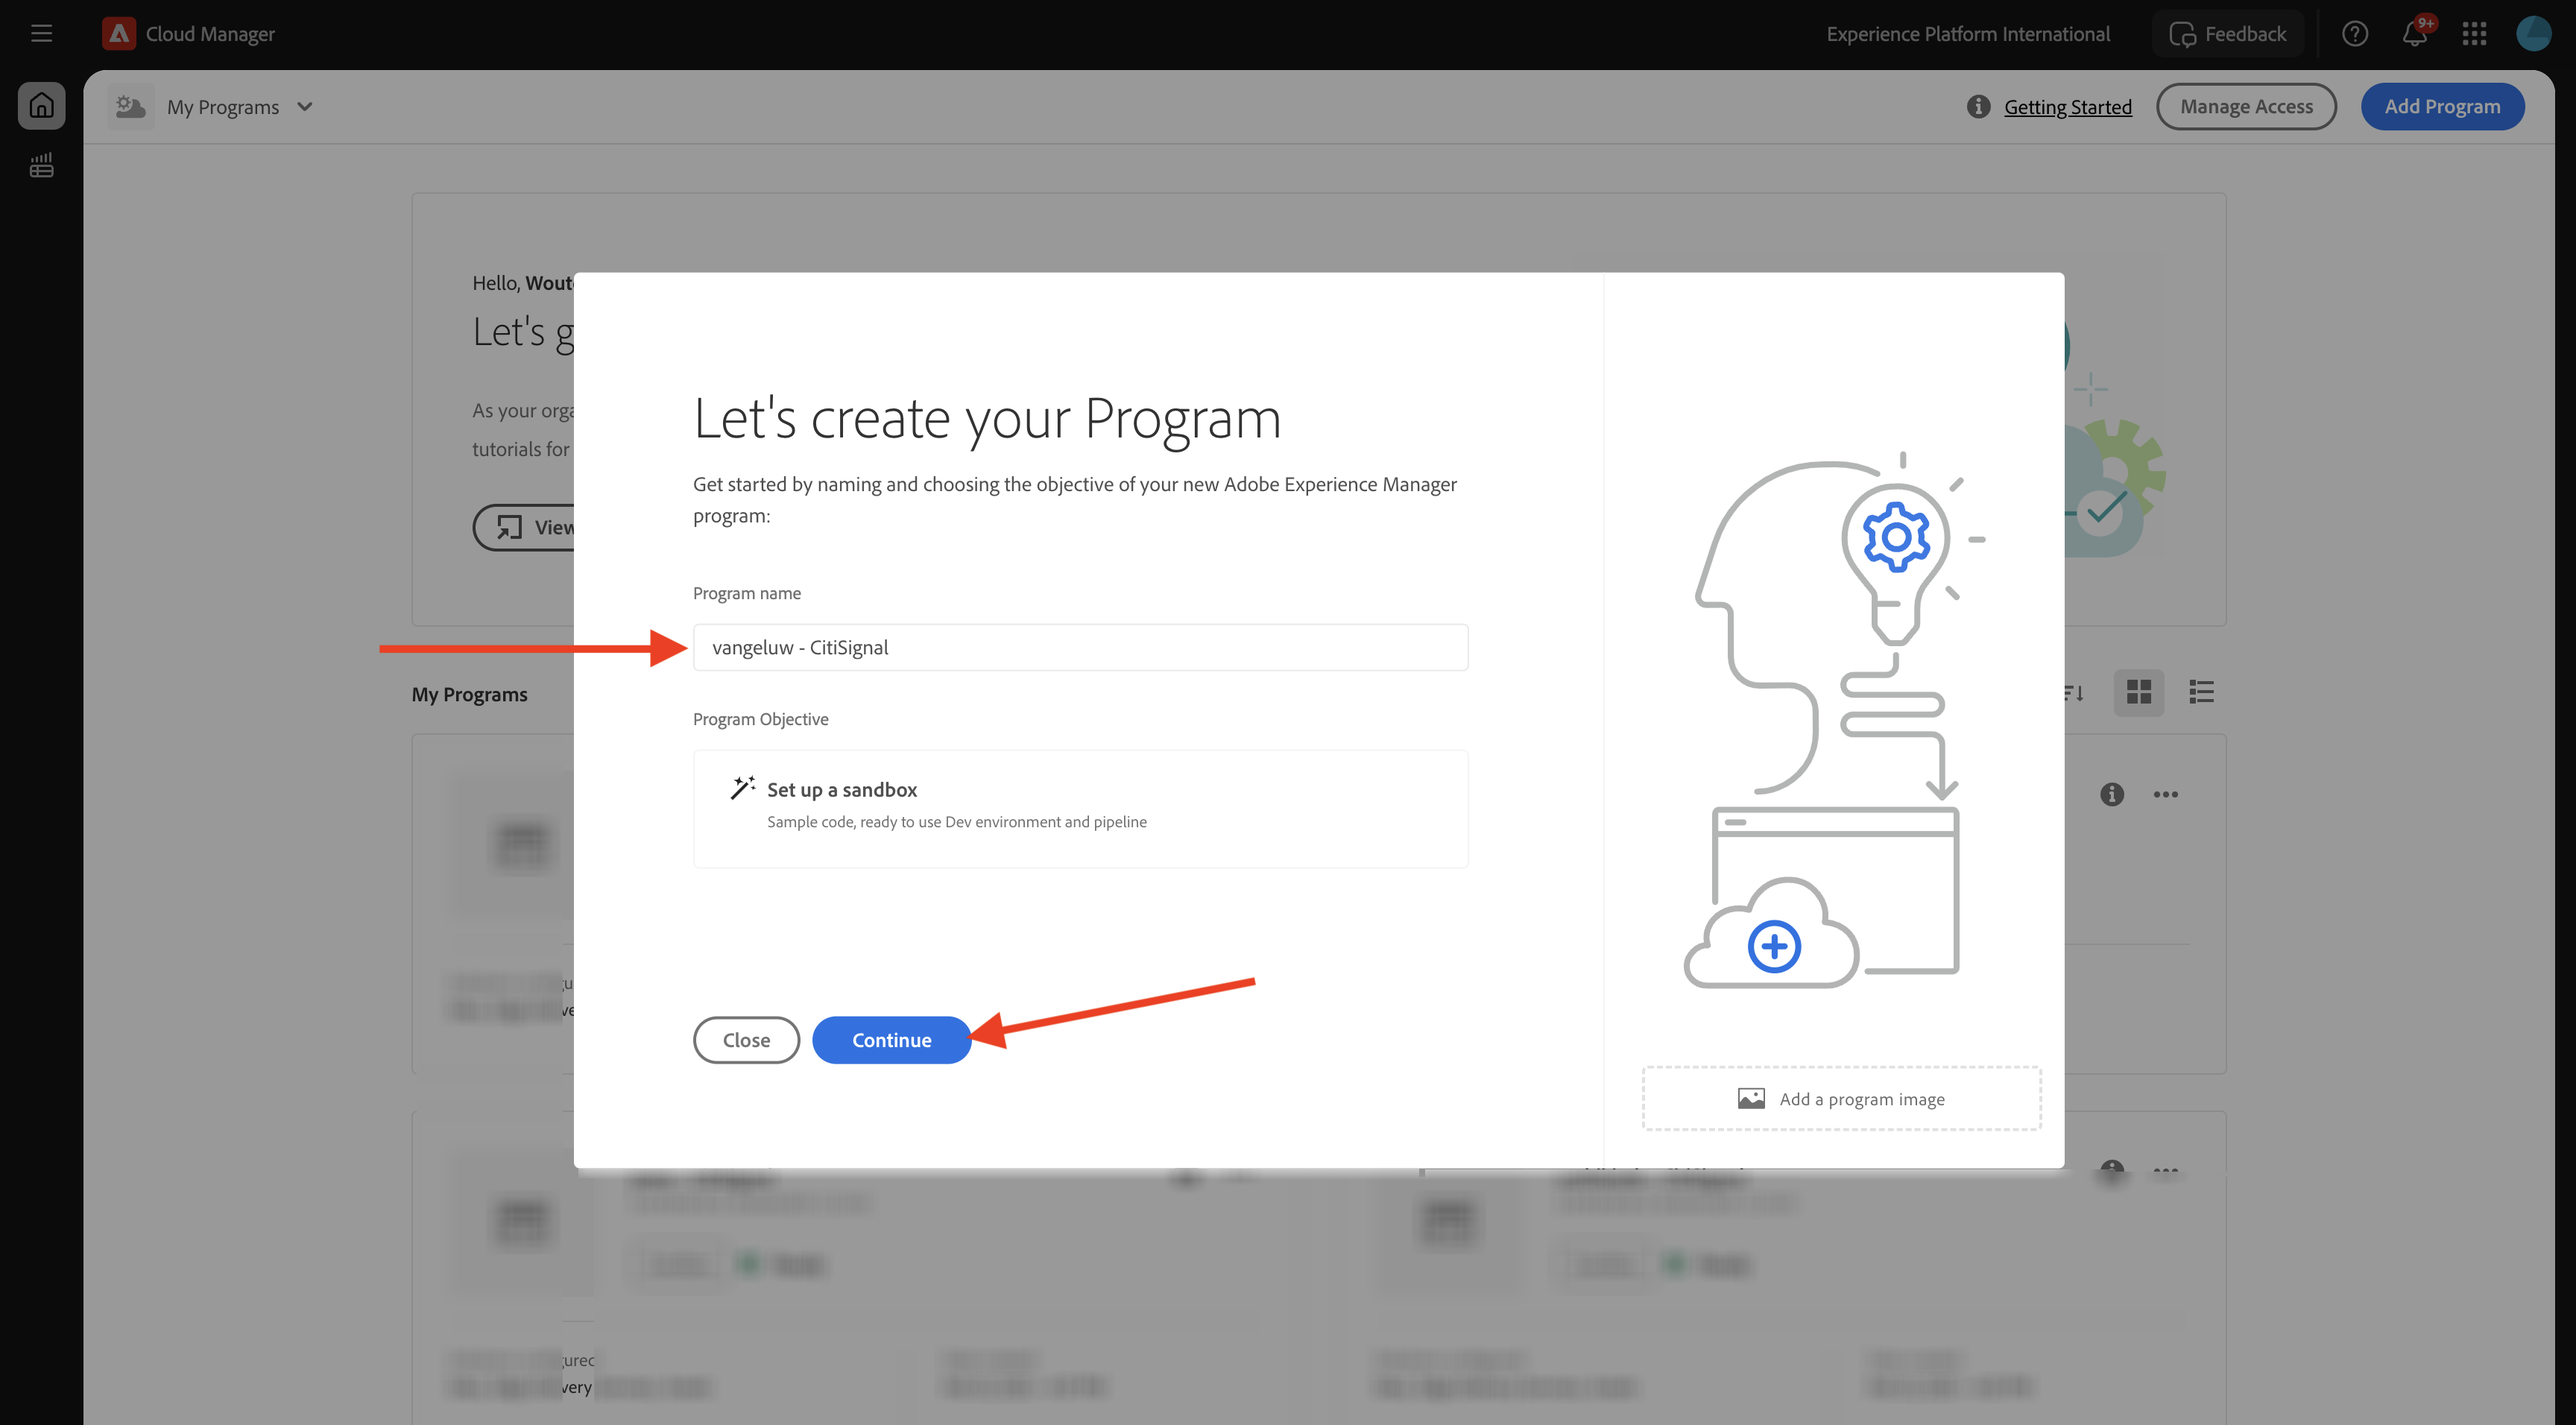
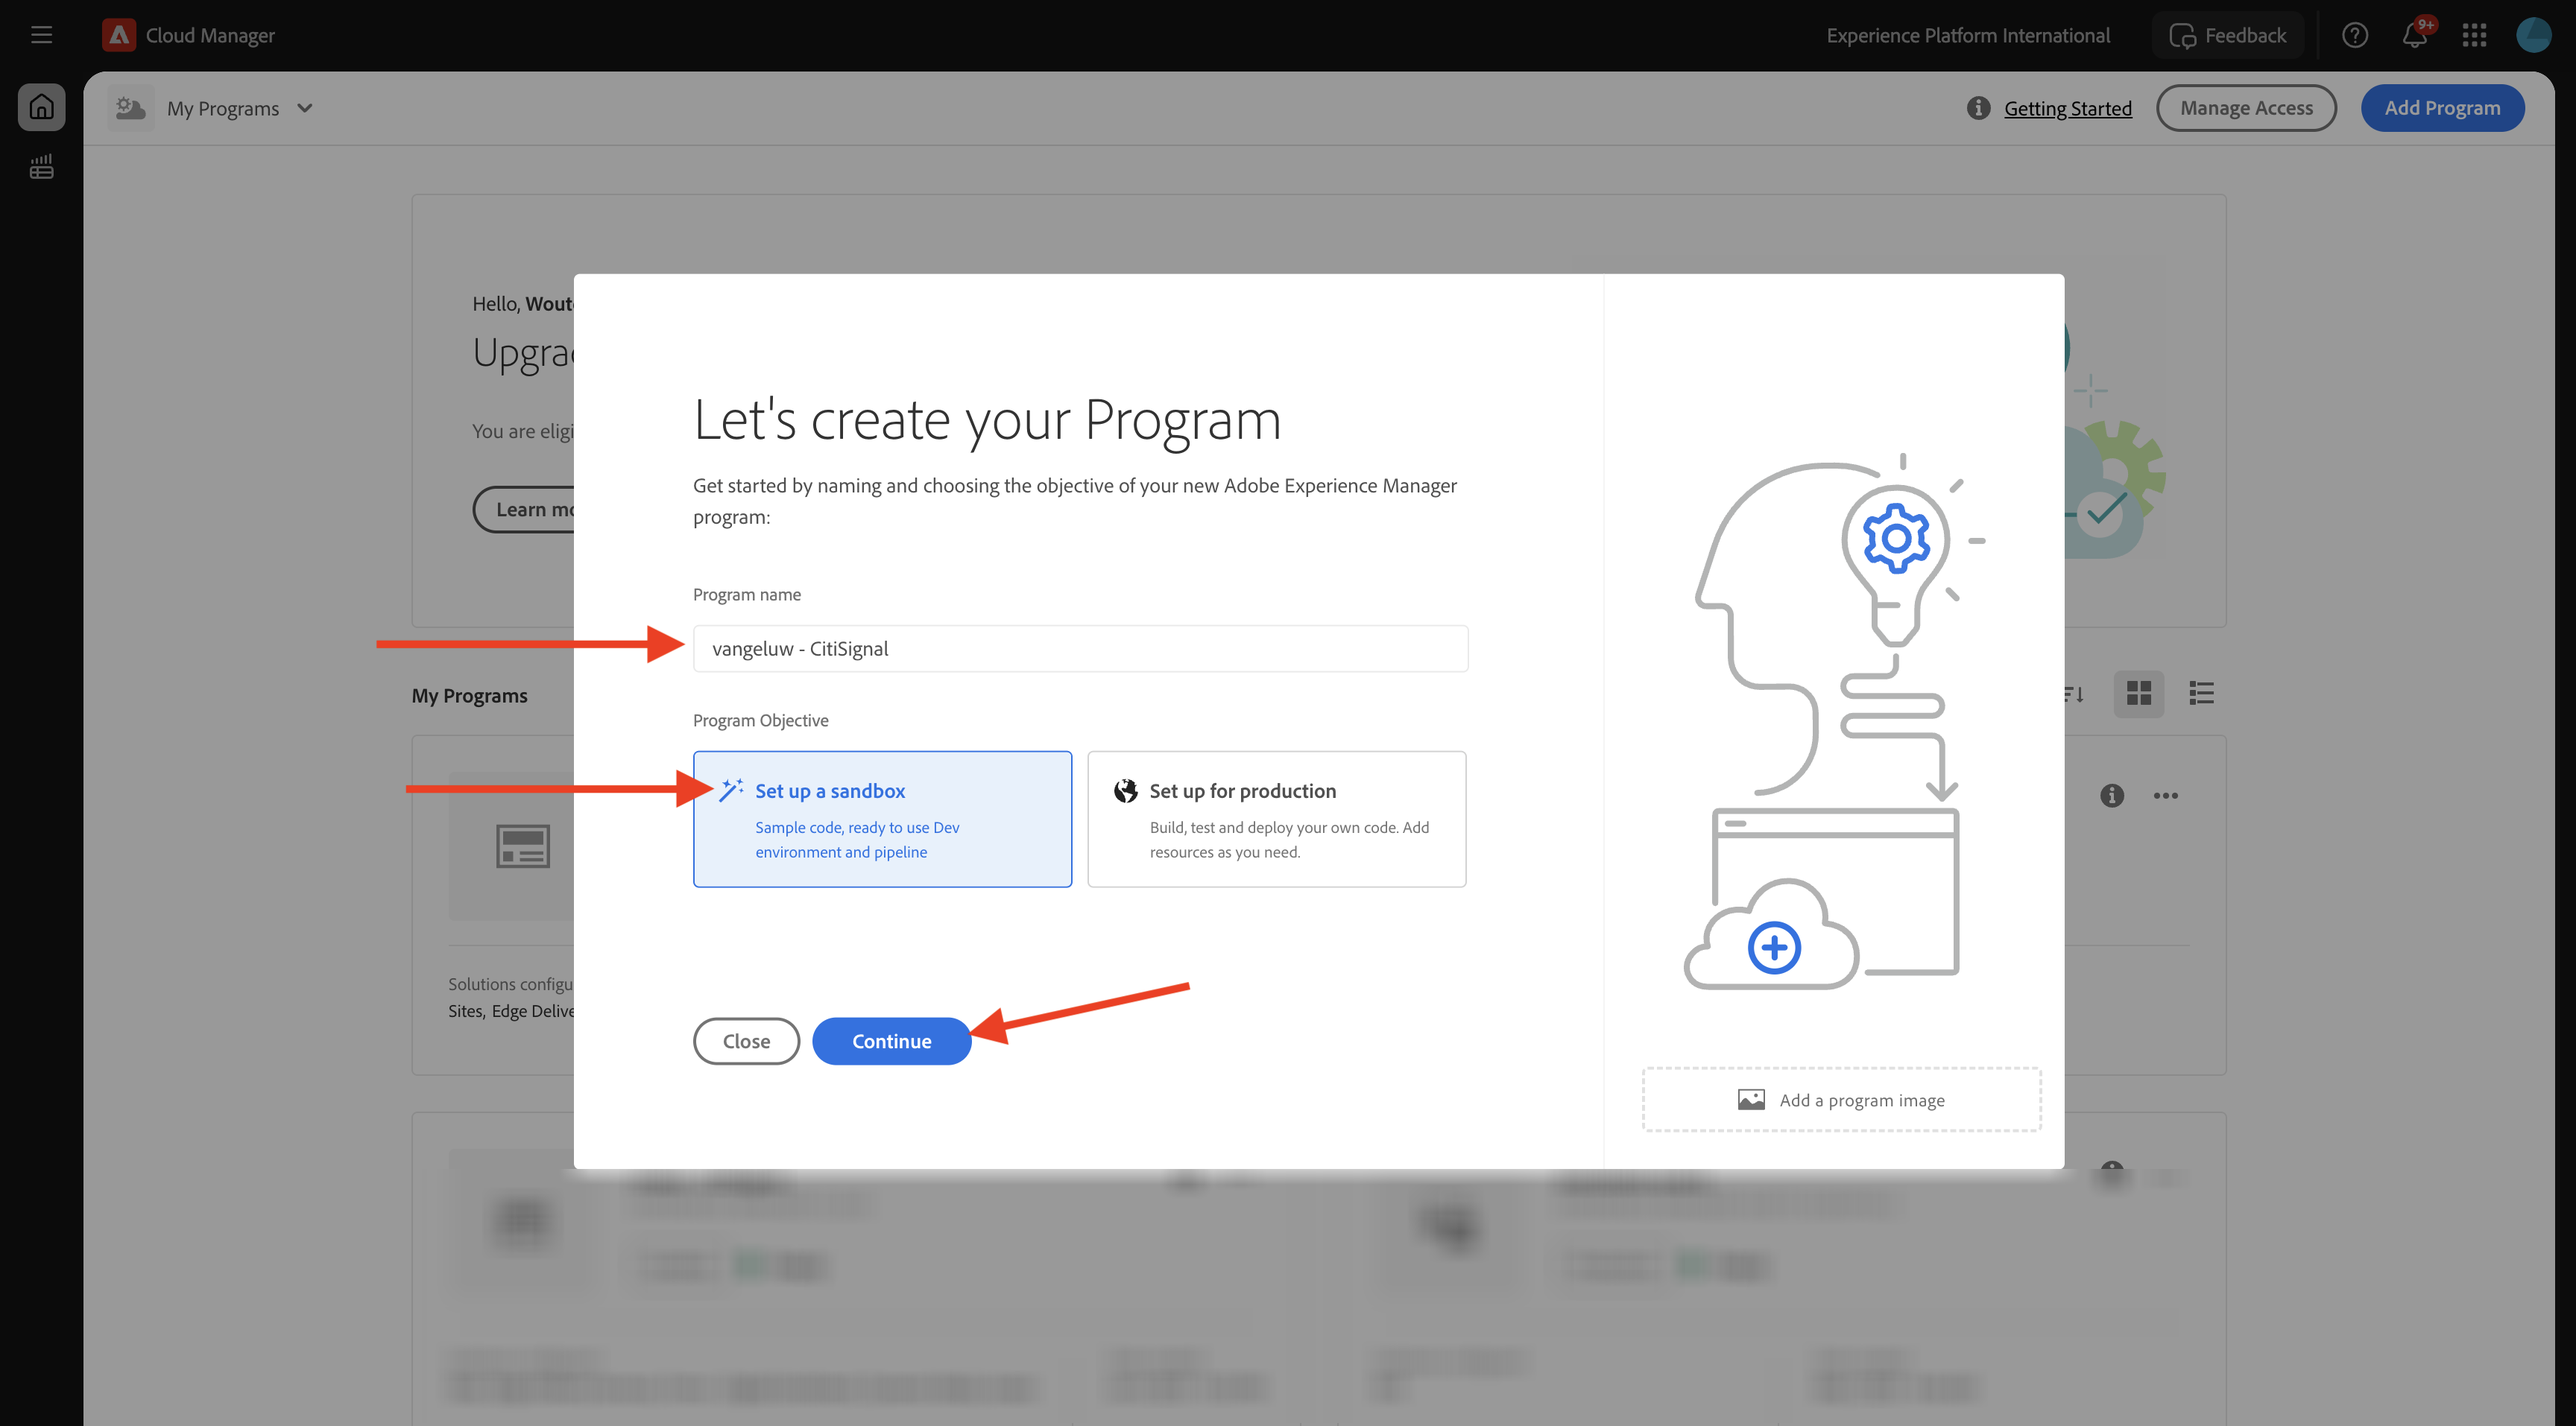
gspem updates

diff --git a/help/tutorial-one-adobe/modules/creation-production/module1.3/ex2.md b/help/tutorial-one-adobe/modules/creation-production/module1.3/ex2.md
@@ -8,9 +8,17 @@ doc-type: Tutorial
 ---
 # 1.3.2 Configuration: Personas, Products and Templates
 
+Go to [https://experience.adobe.com/](https://experience.adobe.com/){target="_blank"}. Open **GenStudio**.
+
+![GSPeM](./images/gspem1.png)
+
 ## 1.3.2.1 Products
 
-Click the 3 dots **...** and then select **Products**.
+Products in GenStudio for Performance Marketing leverage a deep understanding of product specifications, advantages, and differentiating factors to generate impactful content.
+
+Products encompass all elements of a specific product, such as imagery, descriptions, and value propositions, to create a cohesive brand representation. Leveraging Adobe’s advanced AI technology, GenStudio for Performance Marketing guidelines—Brands, Products, and Personas—work together to generate compelling content that showcases the strengths of your products and ensures consistency across all messaging.
+
+To start creating your own products, click the 3 dots **...** and then select **Products**.
 
 ![GSPeM](./images/gspem101.png)
 
@@ -96,7 +104,11 @@ You should then see the 2 products that you configured.
 
 ## 1.3.2.2 Personas
 
-Click the 3 dots **...** and then select **Personas**.
+Personas provide an authentic portrayal of your customer segments, encompassing their information, interests, pain points, preferences, and behavioral traits.
+
+GenStudio for Performance Marketing leverages the power of guidelines—Brands, Products, and Personas—and Adobe’s generative AI technology to curate personalized marketing content for your target customers.
+
+To start creating your personas, click the 3 dots **...** and then select **Personas**.
 
 ![GSPeM](./images/gspem111.png)
 
@@ -207,6 +219,10 @@ You should then see the 3 personas that you configured.
 ![GSPeM](./images/gspem124.png)
 
 ## 1.3.2.3 Templates
+
+GenStudio for Performance Marketing enables content creators to produce consistent on-brand marketing content quickly using templates. A template significantly reduces the time and effort required to generate new content by providing a starting point that includes pre-configured layouts and design elements.
+
+While GenStudio for Performance Marketing does not support the direct creation of templates within the application, you can easily design and prepare templates using popular design tools, such as Adobe InDesign, Illustrator, or Express. Once your design is complete, you can adapt it for use in GenStudio for Performance Marketing. In this exercise, you'll import a number of predefined templates into GenStudio for Performance Marketing.
 
 In the previous exercise, you downloaded the file [CitiSignal-GSPeM-assets.zip](../../../assets/gspem/CitiSignal-GSPeM-assets.zip) to your desktop and unzipped it. That folder contains 4 sample templates that you now need to import in GenStudio.
 

diff --git a/help/tutorial-one-adobe/modules/creation-production/module1.3/genstudio.md b/help/tutorial-one-adobe/modules/creation-production/module1.3/genstudio.md
@@ -8,6 +8,18 @@ doc-type: Tutorial
 ---
 # 1.3 GenStudio for Performance Marketing
 
+Adobe GenStudio for Performance Marketing offers a comprehensive suite of tools designed to streamline content creation, management, and analysis. It infuses the content creation lifecycle with generative AI capabilities that transform how marketing content is created, reviewed, shared, and analyzed.
+
+GenStudio for Performance Marketing uses information about your brand and markets to enhance brand-compliant content creation. The generative AI leverages descriptions of customer personas, products, and brand guidelines to guide content generation in alignment with your organization’s requirements.
+
+To effectively use the generative AI features to create and review campaign assets, a number of steps need to be performed:
+
+- Setup guidelines: Brand guidelines capture brand characteristics such as products, personas and brand details. GenStudio for Performance Marketing’s underlying generative AI capabilities use these guidelines to establish guardrails that guide content generation. You can either upload Brands guideline documents or manually enter brand information.
+- Upload templates: Templates accelerate content creation. A template contains approved features, such as headers and footers, and is optimized for specific channels. System managers typically upload and manage templates for their organization. Content editors use templates to jump-start the content creation process within the established boundaries of the organizational brand.
+- Upload approved assets: Approved assets in Content are available to all GenStudio for Performance Marketing editors. You can populate Content with assets for content editors to use in creating new experiences or assets.
+- Connect to a paid media account: Configure a connection between GenStudio for Performance Marketing and your paid media accounts to receive data from active marketing campaigns, assets, and experiences. Use Insights to analyze channel-derived data.
+
+In this module, you'll learn how to perform all of the above steps yourself, and you'll finish the module by publishing your ad to a paid media destination.
 
 ## Prerequisites
 
@@ -22,6 +34,10 @@ In this exercise, you'll configure a CitiSignal brand in GenStudio for Performan
 [1.3.2 Configuration: Personas, Products and Templates](./ex2.md){target="_blank"}
 
 In this exercise, you'll configure personas and products in GenStudio for Performance Marketing.
+
+[1.3.3 Campaign Activation to Meta](./ex3.md){target="_blank"}
+
+In this exercise, you'll configure a connection to Meta and you'll walk through all the steps needed to be able to create an ad, approve an ad using Adobe Workfront, and publish an ad to Meta.
 
 [Summary and benefits](./summary.md){target="_blank"}
 

diff --git a/help/tutorial-one-adobe/modules/asset-mgmt/module2.1/ex1.md b/help/tutorial-one-adobe/modules/asset-mgmt/module2.1/ex1.md
@@ -9,51 +9,68 @@ exl-id: fda247eb-1865-4936-b46e-84128ccab357
 
 Go to [https://my.cloudmanager.adobe.com](https://my.cloudmanager.adobe.com){target="_blank"}. The org you should select is `--aepImsOrgName--`. You'll then see something like this. Click **Add Program**.
 
-![AEMCS](./images/aemcs1.png){zoomable="yes"}
+![AEMCS](./images/aemcs1.png)
 
-For the **Program Name**, use `--aepUserLdap-- - CitiSignal`. Click **Continue**.
+For the **Program Name**, use `--aepUserLdap-- - CitiSignal`. Select the option **Set up a sandbox**. Click **Continue**.
 
-![AEMCS](./images/aemcs2.png){zoomable="yes"}
+![AEMCS](./images/aemcs2.png)
 
 Ensure that the following options are selected:
 
 - Sites
-- Assets
-- Edge Delivery Services
+- Forms
+- Assets 
+
+Click the arrow for **Assets** to open the list of options.
+
+![AEMCS](./images/aemcs3.png)
+
+Ensure that the following options are selected:
+
+- Content Hub
+
+Scroll down in the list.
+
+![AEMCS](./images/aemcs3a.png)
+
+Ensure that the following options are selected:
+
+- Edge Delivery Services 
+- Dynamic Media
 
 Click **Create**.
 
-![AEMCS](./images/aemcs3.png){zoomable="yes"}
+![AEMCS](./images/aemcs3b.png)
 
-Creating your environments will take some time, 10-20mins.
+Creating your environment will take some time, 10-20mins.
 
-![AEMCS](./images/aemcs4.png){zoomable="yes"}
+![AEMCS](./images/aemcs4.png)
 
 While you wait, you can already start with exercise [1.1.2 Create your document-based website](./ex2.md){target="_blank"}.
 
 Once the environments are created and ready to use, you'll receive an email confirmation after which you can come back here.
 
-![AEMCS](./images/aemcs5.png){zoomable="yes"}
+![AEMCS](./images/aemcs5.png)
 
 Once you've received your email confirmation, go back to [https://my.cloudmanager.adobe.com](https://my.cloudmanager.adobe.com){target="_blank"}. You'll then see that the status of your program has changed to **Ready**. Click your program to open it.
 
-![AEMCS](./images/aemcs6.png){zoomable="yes"}
+![AEMCS](./images/aemcs6.png)
 
 Have a look at the tab **Pipelines**. Click the 3 dots **...** and then click **Run**. 
 
-![AEMCS](./images/aemcs7.png){zoomable="yes"}
+![AEMCS](./images/aemcs7.png)
 
 Click **Run**.
 
-![AEMCS](./images/aemcs8.png){zoomable="yes"}
+![AEMCS](./images/aemcs8.png)
 
 Next, click the 3 dots **...** on the **Environments** tab and click **View Details**.
 
-![AEMCS](./images/aemcs9.png){zoomable="yes"}
+![AEMCS](./images/aemcs9.png)
 
 You'll then see your environment details, including the URL of your **Author** environment, which you'll need in the next exercise.
 
-![AEMCS](./images/aemcs10.png){zoomable="yes"}
+![AEMCS](./images/aemcs10.png)
 
 Once your pipeline run has finished, you can continue with the next exercise.
 

diff --git a/help/tutorial-one-adobe/modules/creation-production/module1.3/ex3.md b/help/tutorial-one-adobe/modules/creation-production/module1.3/ex3.md
@@ -8,6 +8,14 @@ doc-type: Tutorial
 ---
 # 1.3.3 Campaign Activation to Meta
 
+>[!IMPORTANT]
+>
+>In order to complete this exercise, you need to have access to a working AEM Assets CS Author environment with AEM Content Hub enabled. If you follow exercise [Adobe Experience Manager Cloud Service & Edge Delivery Services](./../../../modules/asset-mgmt/module2.1/aemcs.md){target="_blank"} you wil have access to such an environment.
+
+>[!IMPORTANT]
+>
+>If you have previously configured an AEM Assets CS Program with an Author and AEM Assets environment, it may be that your AEM CS sandbox was hibernated. Given that dehibernating such a sandbox takes 10-15 minutes, it would be a good idea to start the dehibernation process now so that you don't have to wait for it at a later time.
+
 Go to [https://experience.adobe.com/](https://experience.adobe.com/){target="_blank"}. Open **GenStudio**.
 
 ![GSPeM](./images/gspem1.png)

diff --git a/help/tutorial-one-adobe/modules/creation-production/module1.3/ex1.md b/help/tutorial-one-adobe/modules/creation-production/module1.3/ex1.md
@@ -8,6 +8,12 @@ doc-type: Tutorial
 ---
 # 1.3.1 Configuration: Brand
 
+A brand distinguishes an organization, product, service or concept from others. Some aspects of a brand are objective, like a logo, while others are subjective, like tone of voice.
+
+GenStudio for Performance Marketing uses the wealth of brand information from your brand, partners it with product and persona information, and builds out a comprehensive brand identity. This brand identity is used to inform the creation of on-brand content using Adobe’s generative AI technology.
+
+To start creating your own brand, follow the below steps.
+
 Go to [https://experience.adobe.com/](https://experience.adobe.com/){target="_blank"}. Open **GenStudio**.
 
 ![GSPeM](./images/gspem1.png)
